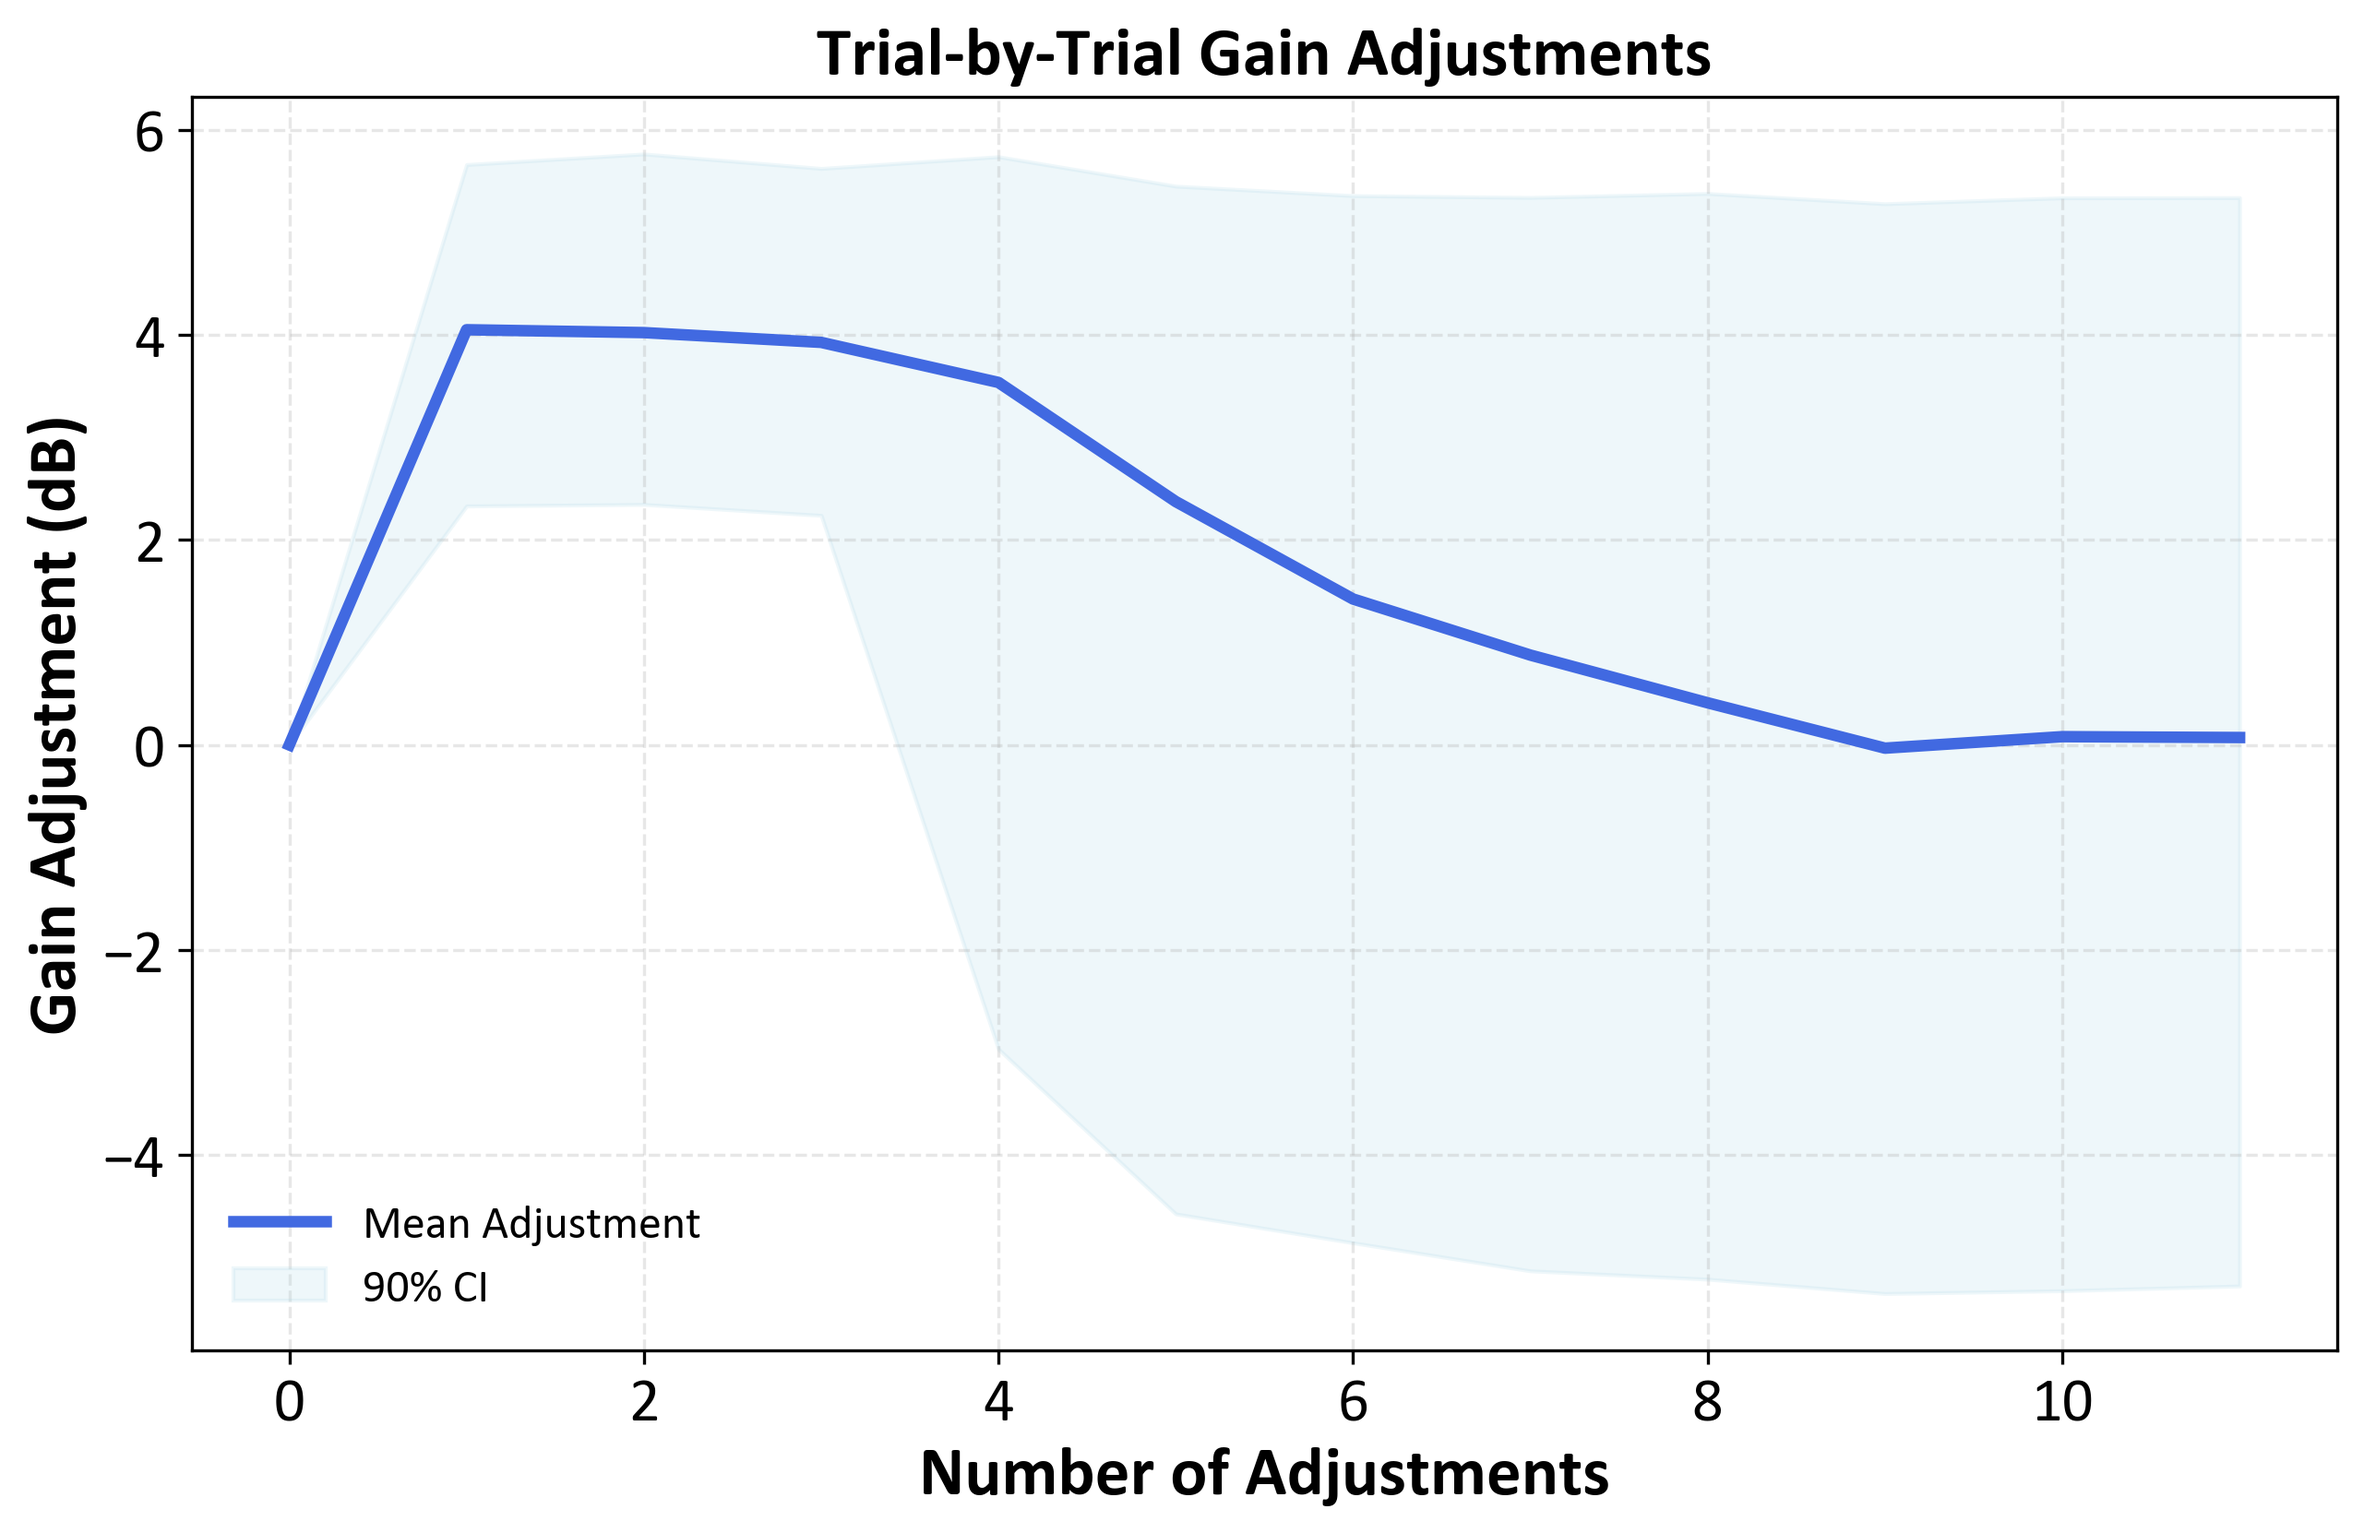
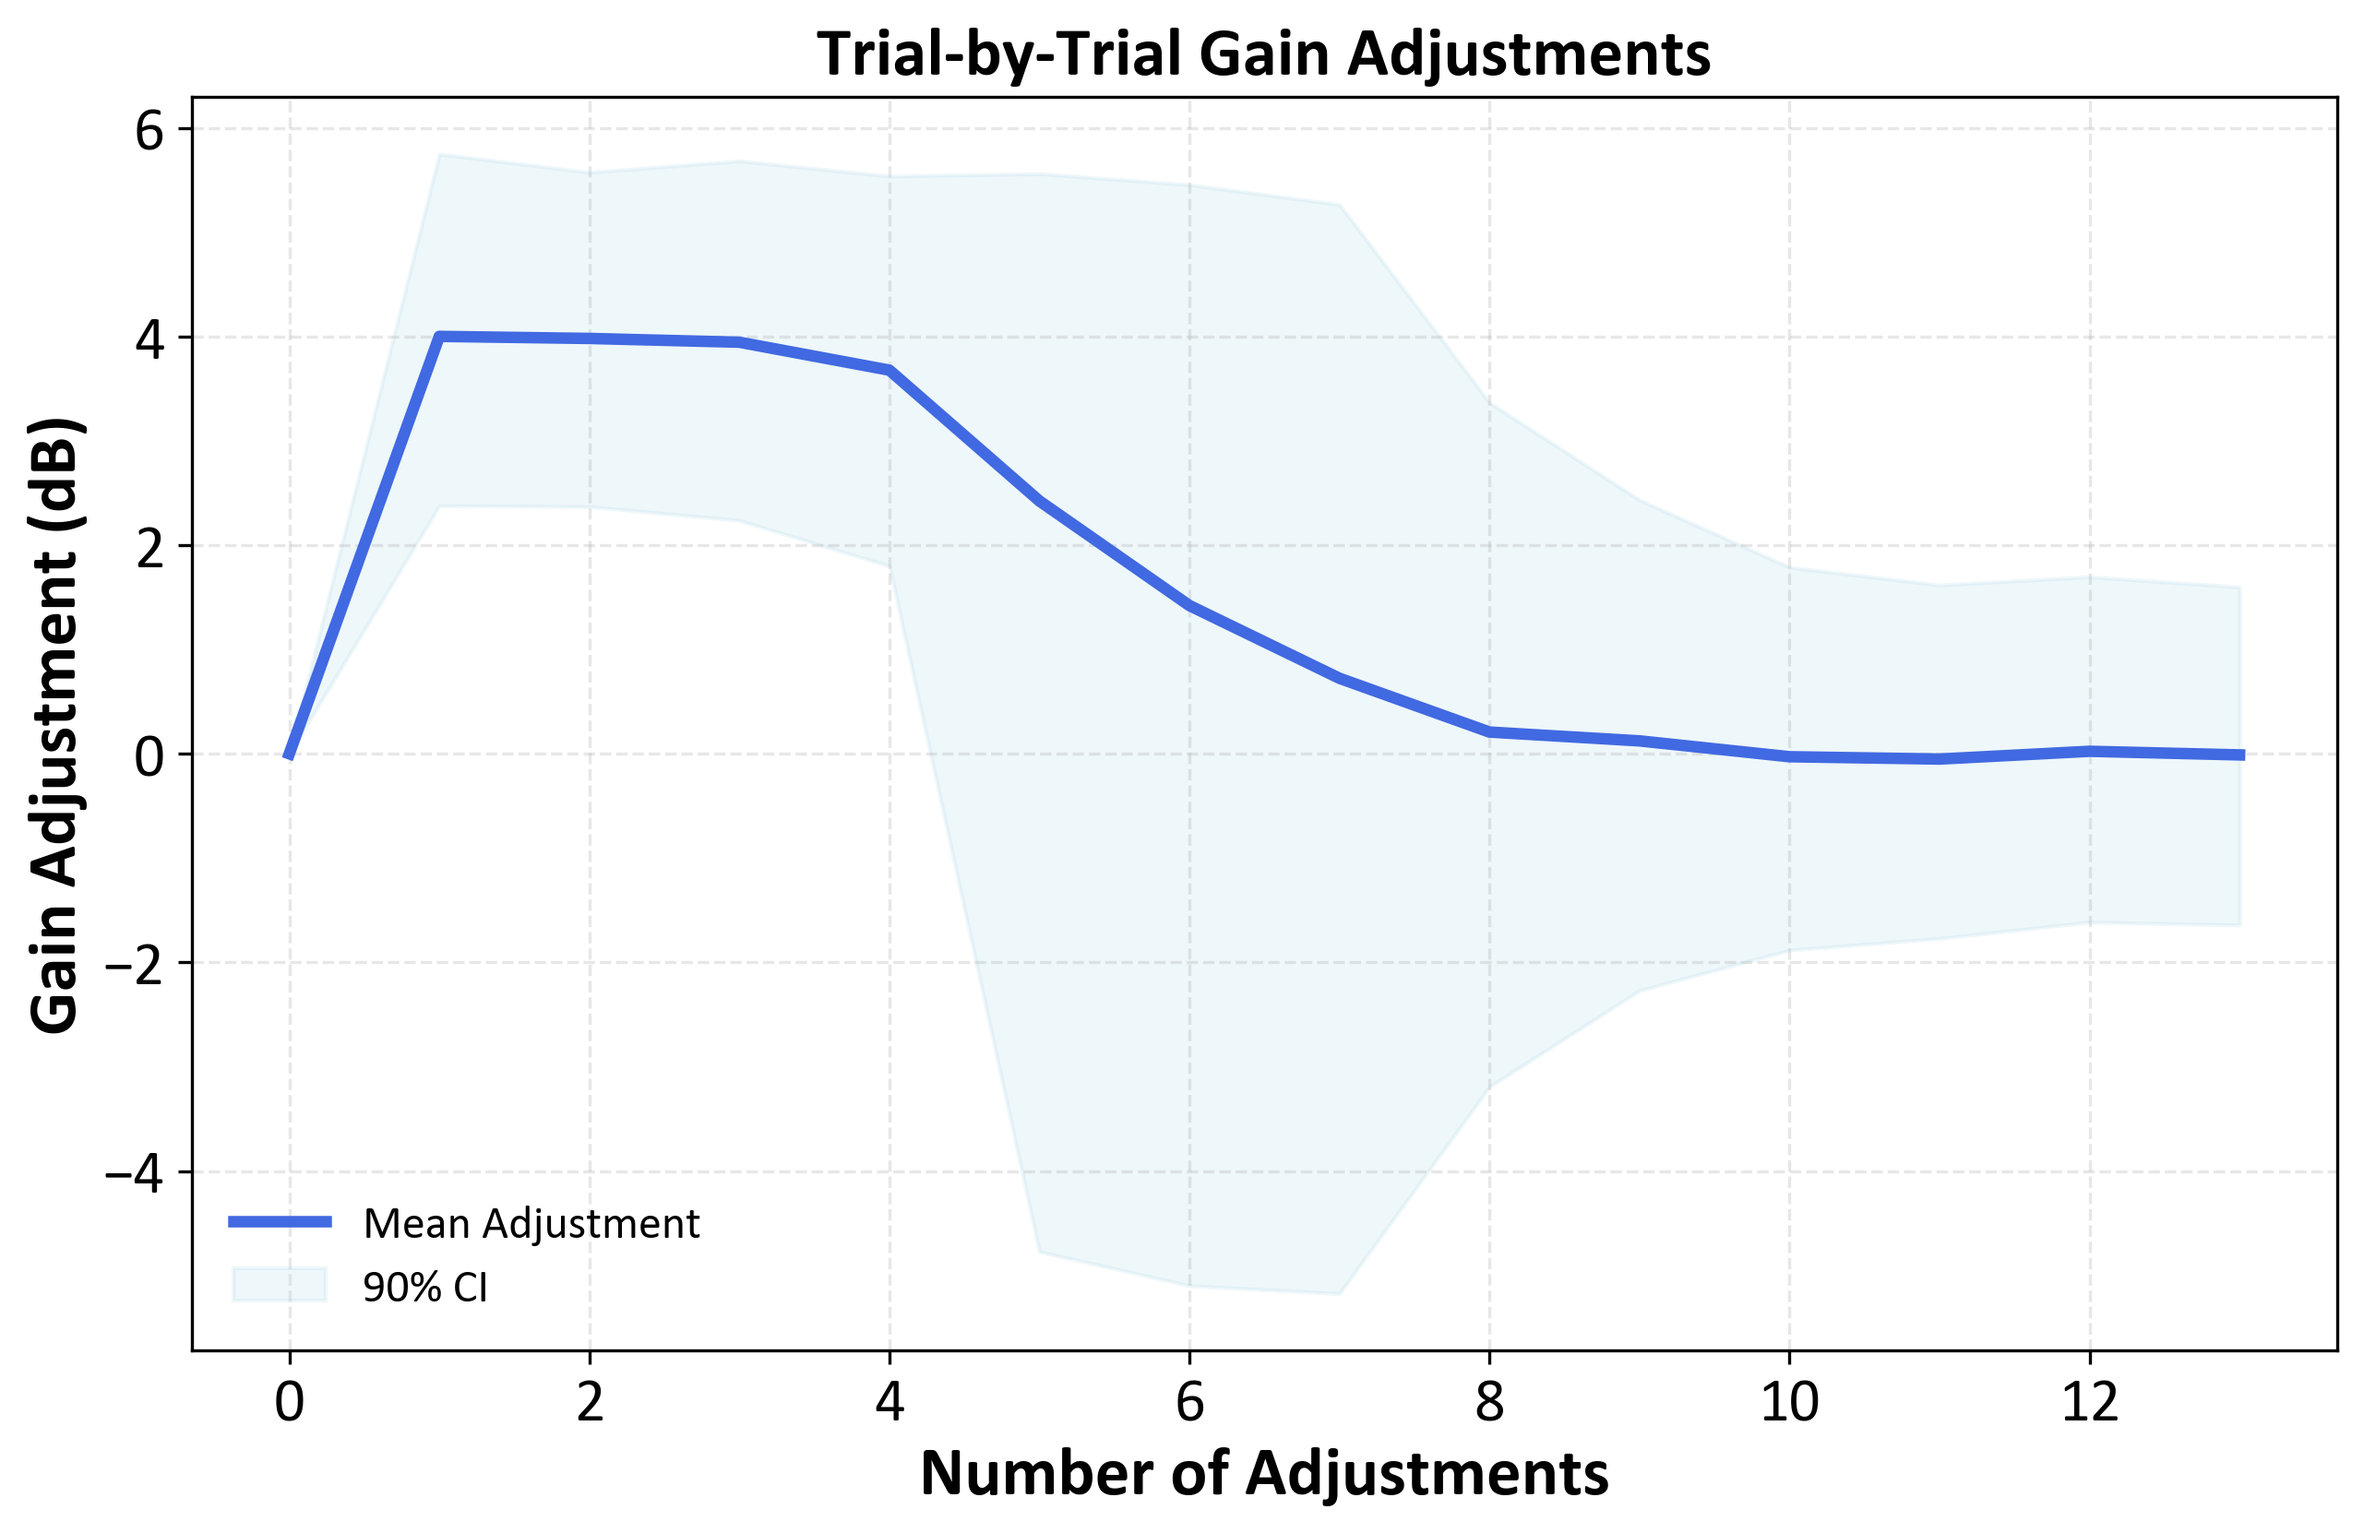
Add files via upload

diff --git a/monte_carlo_gain_adjustment.py b/monte_carlo_gain_adjustment.py
@@ -3,8 +3,9 @@
 # Simulates how users self-adjust their hearing aid gain towards their preferred gain. 
 # The experiment starts at an initial gain setting and models multiple adjustment sessions (e.g., over days or trials). 
 # Monte Carlo simulations introduce variability in user behaviour through varied preferred gain settings and adjustment steps. 
-# Preferred gains are modelled using a log-normal distribution (reflecting a skewed distribution towards milder hearing loss), 
-# while adjustments made during simulations are modelled using a normal distribution.
+# Preferred gains are modelled using a log-normal distribution (reflecting a skewed distribution towards milder hearing loss). 
+# Adjustments made during simulations are modelled using a normal distribution.
+# The mean adjustment is halved after half of the trials.
 # This allows us to assess how users converge to their preferred gain and the variability in the process.
 ########################################################################################################################################################################
 
@@ -33,6 +34,12 @@ def simulate_gain_adjustment(initial_gain, preferred_gain, num_adjustments, mean
     gain_values[0] = initial_gain
     
     for i in range(1, num_adjustments):
+        # Reduce the mean adjustment after a certain number of adjustments (e.g., after 6 adjustments)
+        if i > round(num_adjustments/2):
+            mean_adjustment = mean_adjustment * 0.5  # Reduce the adjustment size by half
+        else:
+            mean_adjustment = mean_adjustment
+
         # Simulation of adjustments to gain
         # Generate a random adjustment based on normal distribution
         adjustment = np.random.normal(mean_adjustment, std_dev_adjustment)
@@ -89,7 +96,7 @@ initial_gain = 0  # Initial gain setting
 preferred_gain_mean = 20  # Mean for skewed distribution (closer to 20 dB, reflecting mild hearing loss)
 preferred_gain_std = 0.3  # Standard deviation for skewed distribution (controls tail length)
 
-num_adjustments = 12  # Number of self-adjustments (e.g., over trials/sessions)
+num_adjustments = 14  # Number of self-adjustments (e.g., over trials/sessions)
 mean_adjustment = 4  # Mean gain adjustment per session
 std_dev_adjustment = 1  # Variability in adjustment
 num_simulations = 1000  # Number of simulations
